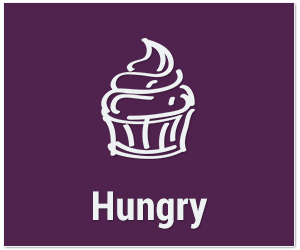
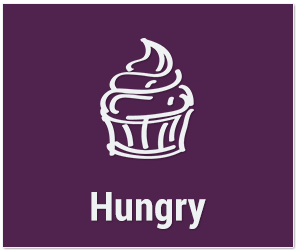
mood screen box as images

Changed region(s): [[0.0, 0.0, 1.0, 1.0], [0.3345, 0.14, 0.6689, 0.644], [0.3041, 0.756, 0.6993, 0.924]]

diff --git a/templates/03mood.html b/templates/03mood.html
@@ -13,43 +13,40 @@
 
     <div class="container middle">
 
-        <!-- Login with existing account -->
-        <div class="row">
-            <div class="box-login">
-                <h3 style="font-size:30px;">I'm feeling...</h3>
-                <a href="#">
-                    <img src="{{ url_for('static', filename='img/box1.png') }}" height="125" width="150" >
-                </a>
-                <a href="#">
-                    <img src="{{ url_for('static', filename='img/box3.png') }}" height="125" width="150" >
-                </a>
-                <a href="#">
-                    <img src="{{ url_for('static', filename='img/box3.png') }}" height="125" width="150" >
-                </a>
-                <a href="#">
-                    <img src="{{ url_for('static', filename='img/box4.png') }}" height="125" width="150" >
-                </a>
-                <br><br>
-                <a href="#">
-                    <img src="{{ url_for('static', filename='img/box-surprise.png') }}" height="125" width="304" >
-                </a>
-            </div>
+        <!-- Mood boxes -->
+        
+        <div class="box-login">
+            <h3 style="font-size:30px;">I'm feeling...</h3>
+            
+            <a href="#">
+                <img src="{{ url_for('static', filename='img/box1.png') }}" height="35%" width="35%" >
+            </a>
+            <a href="#">
+                <img src="{{ url_for('static', filename='img/box2.png') }}" height="35%" width="35%" >
+            </a>
+            <a href="#">
+                <img src="{{ url_for('static', filename='img/box3.png') }}" height="35%" width="35%" >
+            </a>
+            <a href="#">
+                <img src="{{ url_for('static', filename='img/box4.png') }}" height="35%" width="35%" >
+            </a>
+            <br><br>
+            <a href="#">
+                <img src="{{ url_for('static', filename='img/box-surprise.png') }}" height="71.3%" width="71.3%" >
+            </a>
         </div>
     </div>
     <br><br>
     <br><br>
     <br><br>
 
-    <div class="navbar navbar-inverse navbar-fixed-bottom" id="footer">
+    <div class="navbar navbar-inverse" id="footer">
           <div class="navbar-inner">
             <div class="container">
-                <ul class="nav">
-                  <li><a href="#">Link</a></li>
-                  <li><input type="text" placeholder="Search"></li>
-                </ul>
+                <input class="input-block-level" id="tab-search" type="text" placeholder="Search"></li>
             </div>
           </div>
-          <a href="#"><img id="tab-bar-search" src="{{ url_for('static', filename='img/tab-bar-search.png') }}" height="66" width="81"></a>
+          <a href="#"><img id="icon-tab-search" src="{{ url_for('static', filename='img/tab-bar-search.png') }}" height="66" width="81"></a>
     </div>
 
 

diff --git a/static/css/main.css b/static/css/main.css
@@ -156,10 +156,16 @@ a:hover {
    background:#50224e;
 }
 
-#tab-bar-search {
+#icon-tab-search {
 	position:fixed;
 	left:0px;
     bottom:0px;
+}
+
+#tab-search {
+	margin-left: 71px;
+	width: 95%;
+	margin-top: 10px;
 }
 
 
